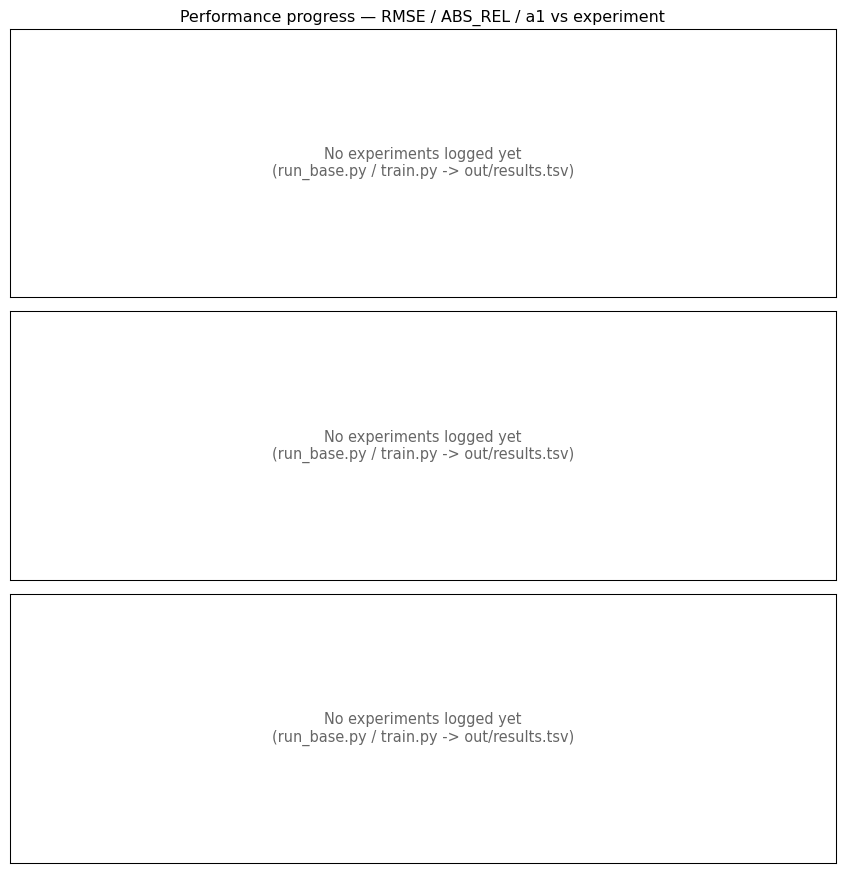
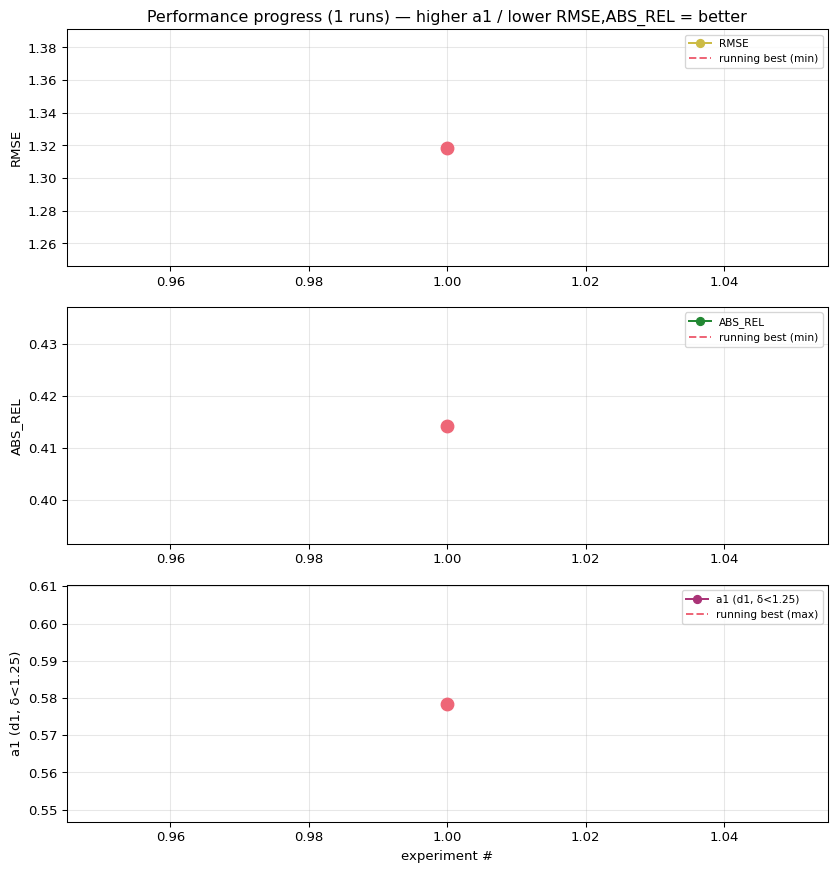
E0: batvision 2ch nolog under planar target (composite 1.8854)
abs_rel 0.4143  rmse 1.3186  d1 0.5785  peak 2.4GB  26 epochs.
Best checkpoint is epoch 14/26; the last 12 epochs overfit (val loss 0.1871->0.1925,
RMSE 1.347->1.382). Cosine is sized for 40 epochs but only ~26 fit the 1h budget, so
LR never anneals. Logged as a training-optimization follow-up -- schedule stays fixed
for the remaining three grid cells so the comparison holds.

diff --git a/README.md b/README.md
@@ -29,7 +29,7 @@ running best highlighted):
 <!-- RESULTS:START -->
 | # | commit | ABS_REL | RMSE | d1 | composite | status | description |
 |---|---|---|---|---|---|---|---|
-| — | — | — | — | — | — | — | *(no experiments logged yet)* |
+| 1 | `209c6e8` | 0.4143 | 1.3186 | 0.5785 | 1.8854 | keep | E0 batvision U-Net 2ch [L,R] nolog, planar target, 26ep |
 <!-- RESULTS:END -->
 
 ## Progression (composite, lower = better)